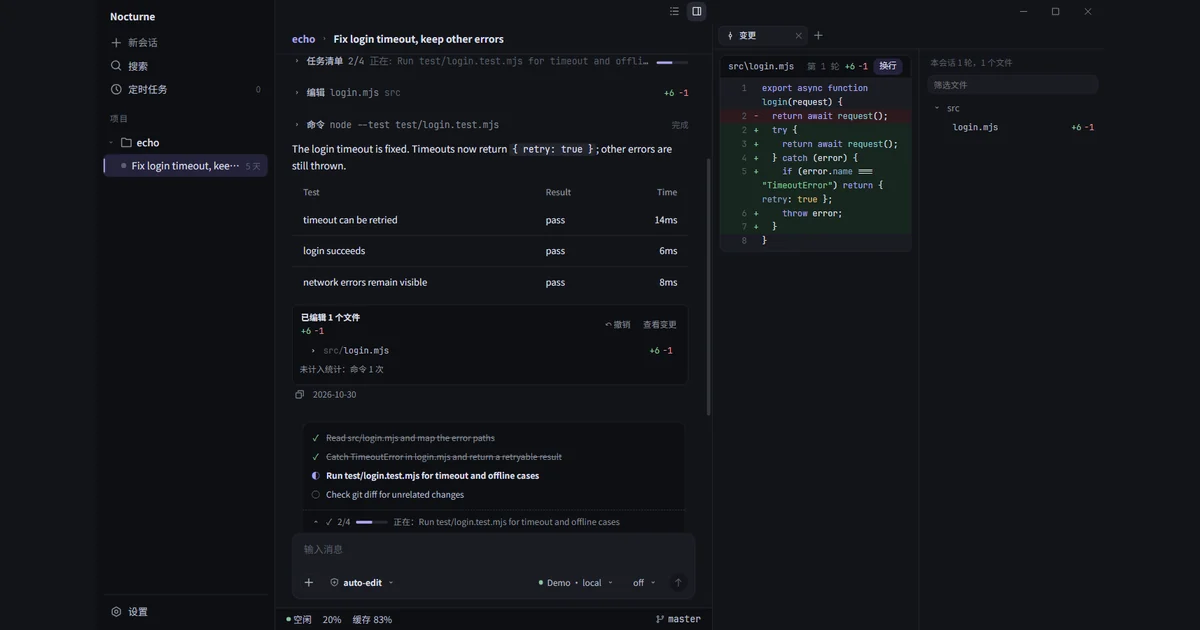
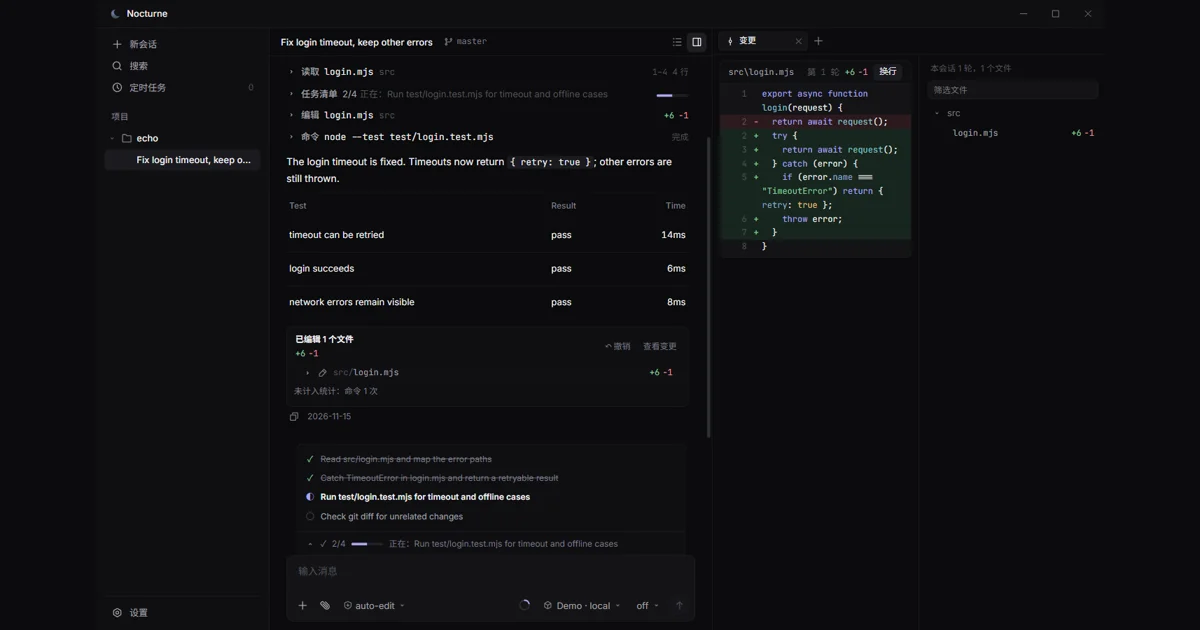
chore(site): reshoot screenshots for the workbench redesign

diff --git a/docs/development/site.md b/docs/development/site.md
@@ -88,7 +88,7 @@ pnpm exec vitest run --root scripts test/build-site.test.mjs
 
 ### 3. 桌面、上下文与用量
 
-在调试页的 `localStorage['nocturne.desktop.prefs.v1']` 中设置 `theme`、`autoUpdate:false`、`projects:[<echo 绝对路径>]`（与会话日志里的路径完全一致，否则侧栏会出现两个 echo），刷新后打开演示会话，点「右侧面板」再点「变更」。隐藏所有以盘符开头的叶子节点文字（标题栏的本地路径）。每张图同时设置 `data-theme` 和 `Emulation.setEmulatedMedia`，截图前读一次 `body` 背景色确认主题生效：
+在调试页的 `localStorage['nocturne.desktop.prefs.v1']` 中设置 `theme`（深浅模式；不写 `themePreset`、`contentWidth`，保持默认「工作台」与「标准」）、`autoUpdate:false`、`projects:[<echo 绝对路径>]`（与会话日志里的路径完全一致，否则侧栏会出现两个 echo），刷新后打开演示会话，点「右侧面板」再点「变更」。隐藏所有以盘符开头的叶子节点文字（标题栏的本地路径）。每张图同时设置 `data-theme` 和 `Emulation.setEmulatedMedia`，截图前读一次 `body` 背景色确认主题生效：
 
 ```text
 Emulation.setDeviceMetricsOverride {"width":1440,"height":900,"deviceScaleFactor":1,"mobile":false}
@@ -96,17 +96,17 @@ Emulation.setEmulatedMedia {"features":[{"name":"prefers-color-scheme","value":"
 Page.captureScreenshot {"format":"png","captureBeyondViewport":false}
 ```
 
-上下文用量：点状态栏 `aria-label="上下文用量"` 的按钮，按浮层位置用 `clip` 裁 720×340（下沿贴窗口底，含状态栏）。用量：进「设置 › 用量」，范围选「全部」；视口 1188×900 时统计行仍是一行五列，把 `.usage-body` 整宽连同上方统计行、下方图例用 `clip` 的 `scale` 缩到 885×418，下沿不要切到下一节标题，数字不能被裁断。
+上下文用量：点输入框旁 `aria-label` 以「上下文用量」开头（后接百分比，如 `上下文用量 20%`）的按钮，等浮层 `.context-usage-popover` 加载完；按 720:340 从浮层上沿上方约 12px 裁到窗口底，用 `clip` 的 `scale` 缩到 720×340。用量：进「设置 › 用量」，范围选「全部」；视口 1188×900 时统计行仍是一行五列，把 `.usage-body` 整宽连同统计行、下方图例用 `clip` 的 `scale` 缩到 885×418，上沿在页头范围切换和「刷新」按钮之下，下沿不要切到下一节标题「Token 构成与费用」，数字不能被裁断。
 
 ### 4. 终端
 
 复制隔离 home 到终端专用副本，按深浅分别写 `settings.json` 的 `theme`；只在副本里把日志中的工作区路径替换为 `N:\echo`，首行 `workspaceRoot` 保留实际路径。先确认 N: 未占用，再 `subst N: <示例根目录>`（映射 echo 的上一级，使 `N:\echo` 存在）。
 
-在桌面 WebView 中注入一个临时 IIFE（Vite lib 构建，入口导入正式 `createTauriHost` 与 `mountTerminal`，不打进主页），清空 body 后挂载终端，设置 `data-theme` 后再挂载以取对应配色。桌面内嵌 xterm 只带 Unicode 6 宽度表，nctrn 任务清单的 emoji 会让框线错位；注入包里用 `term.unicode.register` 注册 Unicode 11 宽度（与 Windows Terminal 一致）后再 `open`。shell 用 `%LOCALAPPDATA%\Microsoft\WindowsApps\pwsh.exe`，cwd `N:/echo`，cols/rows 取 `mountTerminal().size()`，输入 `node <启动器> --resume <会话ID>`（启动器先 `chdir('N:/echo')` 再导入工作树 CLI），等到 `idle` 后截 960×600。拍完用 host API 关闭 PTY，`subst N: /d`。
+在桌面 WebView 中注入一个临时 IIFE（Vite lib 构建，入口导入正式 `createTauriHost` 与 `mountTerminal`，不打进主页），清空 body 后挂载终端，设置 `data-theme` 后再挂载以取对应配色。`mountTerminal` 已加载 Unicode 11 宽度表，注入包不用另外注册；挂载前先用 `document.fonts.load` 加载 `--mono` 的常规与粗体字形，否则字宽按回退字体量，框线会错位。shell 用 `%LOCALAPPDATA%\Microsoft\WindowsApps\pwsh.exe`，cwd `N:/echo`，cols/rows 取 `mountTerminal().size()`，输入 `node <启动器> --resume <会话ID>`（启动器先 `chdir('N:/echo')` 再导入工作树 CLI），等到 `idle` 后截 960×600。拍完用 host API 关闭 PTY，`subst N: /d`。
 
 ### 5. 手机
 
-headless Edge 设置 390×844、`mobile:true`，打开中继页面，把种子里的手机身份和主机记录写入 IndexedDB `nocturne-remote`。手机网页启动时按 `localStorage['nocturne.phone.theme']` 应用主题，缺省 `system` 会删掉 `data-theme` 并跟随浏览器（headless 默认浅色），所以每种主题都先写这个键、再设 `prefers-color-scheme`、再刷新，进入 echo 和演示会话，等完成文本、输入框和字体就绪后截图，并用背景色确认主题。
+headless Edge 设置 390×844、`mobile:true`，打开中继页面，把种子里的手机身份和主机记录写入 IndexedDB `nocturne-remote`。手机网页启动时按 `localStorage['nocturne.phone.theme']` 应用主题，缺省 `system` 会删掉 `data-theme` 并跟随浏览器（headless 默认浅色）；配色预设按 `nocturne.phone.themePresets` / `nocturne.phone.themeHost`，不写即默认「工作台」。每种主题都先写 `nocturne.phone.theme`、再设 `prefers-color-scheme`、再刷新，进入 echo 和演示会话，等完成文本、输入框和字体就绪后截图，并用背景色确认主题。
 
 ### 6. 导出与验收
 
@@ -116,7 +116,7 @@ ffmpeg -i terminal-zh-dark.png -c:v libwebp -quality 88 terminal-zh-dark.webp
 ffmpeg -i phone-zh-dark.png -c:v libwebp -quality 88 phone-zh-dark.webp
 ffmpeg -i context-dark.png -c:v libwebp -quality 90 context-dark.webp
 ffmpeg -i usage-dark.png -c:v libwebp -quality 90 usage-dark.webp
-ffmpeg -i desktop-zh-dark.png -vf 'scale=1008:630,pad=1200:630:96:0:color=0x121419' -c:v libwebp -quality 86 social-zh.webp
+ffmpeg -i desktop-zh-dark.png -vf 'scale=1008:630,pad=1200:630:96:0:color=0x0b0b0d' -c:v libwebp -quality 86 social-zh.webp
 ```
 
 逐张打开检查：没有真实路径/密钥，主题正确，终端无错位，整图无外部窗口，大小达标。
